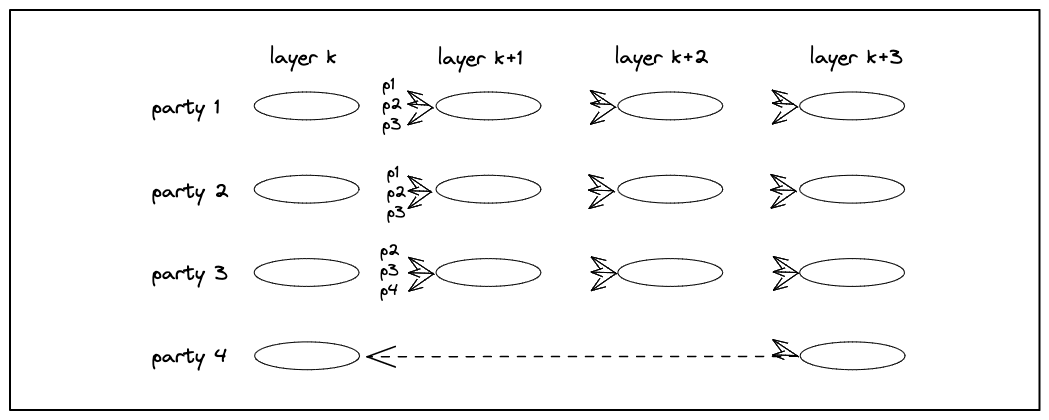
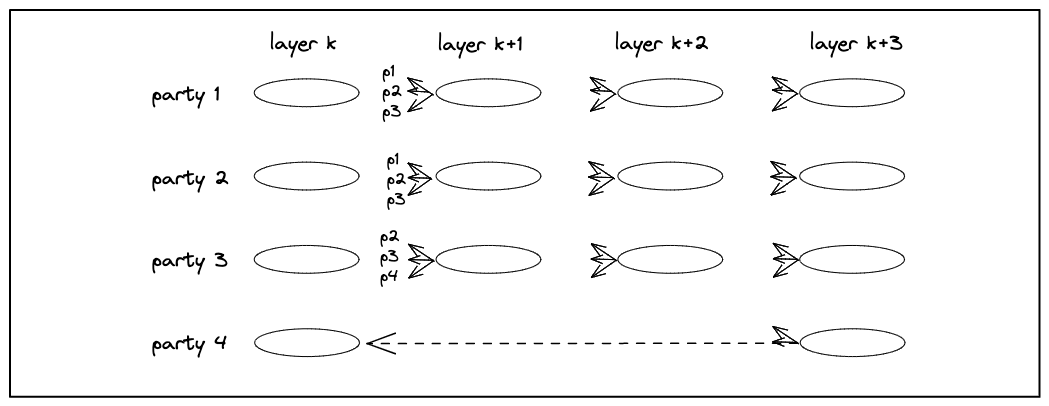
working on DAG draft

diff --git a/_drafts/DAG-BFT.md b/_drafts/DAG-BFT.md
@@ -68,7 +68,7 @@ contains notes on BFT Consensus solutions that build on DAG Trans.
 
   <span id="Figure-DAG"> </span>
 
-  <img src="/images/FIN/basic-DAG.png" width="600"  class="center"  />
+  <img src="/images/FIN/basic-DAG.png" width="700"  class="center"  />
 
   **_Figure: DAG Trans._** 
   _A layer-by-layer causality DAG. Each message refers to 2F+1 ones in the preceding layer._ 
@@ -134,7 +134,7 @@ Therefore, parties are allowed to refer to their own preceding message across (s
 
   <span id="Figure-Disconnect"></span>
 
-  <img src="/images/FIN/basic-DAG2.png" width="600"  class="center"  />
+  <img src="/images/FIN/basic-DAG2.png" width="700"  class="center"  />
 
   **_Figure: Disconnect._** 
   _A temporary disconnect of party 4 and a later reconnect._ 
